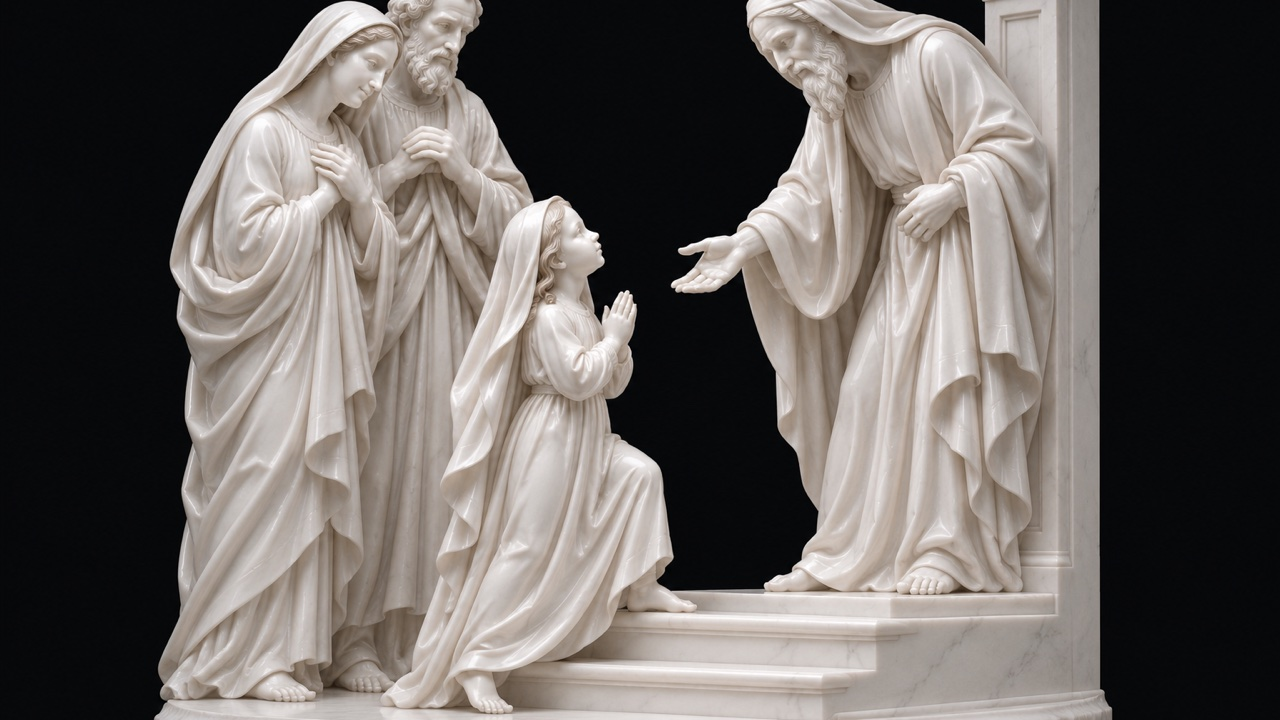
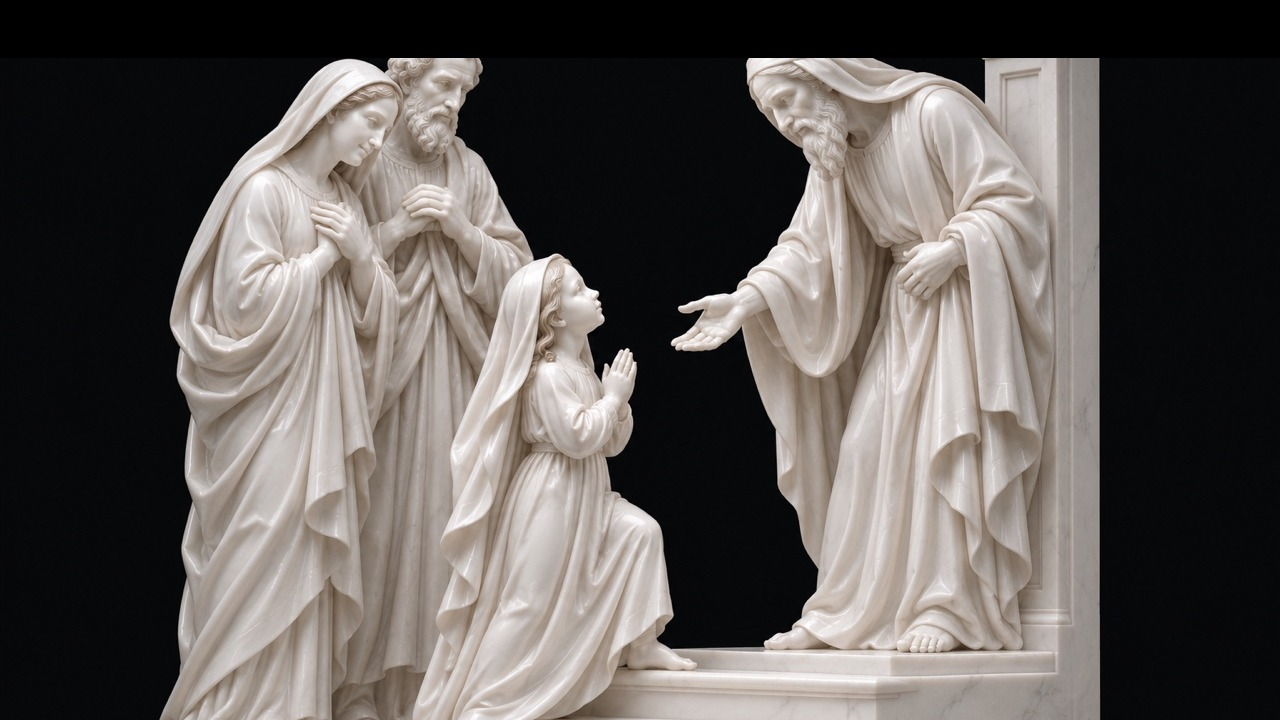
Clear feast detail chrome and give Presentation of Mary top air.
Feast detail and secondary heroes cover-fill below status + inline nav so sculpture heads are no longer hidden by the translucent bar. Presentation of Mary light and dark assets gain ~8% top field while still filling the card from the top and cropping only the bottom.

diff --git a/RosaryGuide/Views/Feasts/FeastsView.swift b/RosaryGuide/Views/Feasts/FeastsView.swift
@@ -487,6 +487,8 @@ struct FeastDetailView: View {
     @Environment(\.colorScheme) private var colorScheme
     /// Nil = all collapsed — keeps feast detail from becoming a wall of prayer text.
     @State private var expandedPrayerID: String?
+    /// Captured before the hero ignores the top safe area so status-bar inset stays real.
+    @State private var topSafeInset: CGFloat = 0
 
     private var feast: Feast { item.feast }
     private var feastDayAssignment: MysteryAssignment {
@@ -527,6 +529,17 @@ struct FeastDetailView: View {
         // Plain page colour over the ambient layer; glass cards stay on.
         .guidePlainPageBackground()
         .guidePageChrome(ambientBackground: true)
+        // Read safe-area from a non-ignoring probe (HomeView captureMetrics pattern).
+        // A GeometryReader under the hero's ignoresSafeArea can report top = 0.
+        .background {
+            GeometryReader { geo in
+                Color.clear
+                    .onAppear { topSafeInset = geo.safeAreaInsets.top }
+                    .onChange(of: geo.safeAreaInsets.top) { _, value in
+                        topSafeInset = value
+                    }
+            }
+        }
         // Keep native navigation visible so level-2 screens always have back navigation.
         // The system back gesture remains available from the far-left edge.
         .toolbar(.visible, for: .navigationBar)
@@ -883,9 +896,15 @@ struct FeastDetailView: View {
     }
 
     private var detailHero: some View {
-        ZStack {
-            FeastHeroBanner(feast: feast, height: 330, cornerRadius: 0)
-                .frame(maxWidth: .infinity)
+        let chrome = topSafeInset + AppTheme.FeastHero.inlineNavBarHeight
+        return ZStack {
+            FeastHeroBanner(
+                feast: feast,
+                height: 330,
+                cornerRadius: 0,
+                topChromeInset: chrome
+            )
+            .frame(maxWidth: .infinity)
         }
         .frame(height: 330)
         .padding(.horizontal, -AppTheme.gutter)
@@ -1297,11 +1316,17 @@ private struct FeastSecondaryPage<Content: View>: View {
     var feast: Feast
     @ViewBuilder var content: () -> Content
     @Environment(\.palette) private var palette
+    @State private var topSafeInset: CGFloat = 0
 
     var body: some View {
         ScrollView(showsIndicators: false) {
             VStack(alignment: .leading, spacing: 0) {
-                FeastHeroBanner(feast: feast, height: 238, cornerRadius: 0)
+                FeastHeroBanner(
+                    feast: feast,
+                    height: 238,
+                    cornerRadius: 0,
+                    topChromeInset: topSafeInset + AppTheme.FeastHero.inlineNavBarHeight
+                )
                     .padding(.horizontal, -AppTheme.gutter)
                     .padding(.top, -8)
                     // Plain page colour above the banner, not the ambient tint.
@@ -1339,6 +1364,15 @@ private struct FeastSecondaryPage<Content: View>: View {
         // Plain page colour over the ambient layer; glass cards stay on.
         .guidePlainPageBackground()
         .guidePageChrome(ambientBackground: true)
+        .background {
+            GeometryReader { geo in
+                Color.clear
+                    .onAppear { topSafeInset = geo.safeAreaInsets.top }
+                    .onChange(of: geo.safeAreaInsets.top) { _, value in
+                        topSafeInset = value
+                    }
+            }
+        }
         // Match FeastDetailView: native nav with hidden (translucent) bar material
         // so hero content can show through liquid glass.
         .toolbar(.visible, for: .navigationBar)
@@ -1373,6 +1407,8 @@ private struct FeastHeroBanner: View {
     var feast: Feast
     var height: CGFloat = 200
     var cornerRadius: CGFloat = AppTheme.containerRadius
+    /// Status + inline nav clearance for under-nav heroes. Home cards leave this at 0.
+    var topChromeInset: CGFloat = 0
     @Environment(\.palette) private var palette
     @Environment(\.colorScheme) private var colorScheme
 
@@ -1399,7 +1435,8 @@ private struct FeastHeroBanner: View {
                     directory: path.directory,
                     name: path.name,
                     ext: path.ext,
-                    coversSubject: true
+                    coversSubject: true,
+                    topChromeInset: topChromeInset
                 )
                 .frame(maxWidth: .infinity, maxHeight: .infinity)
                 .clipped()

diff --git a/RosaryGuideTests/ThemeTokenTests.swift b/RosaryGuideTests/ThemeTokenTests.swift
@@ -539,6 +539,28 @@ final class FeastHeroFramingTests: XCTestCase {
         assertWindowFillsFrame(visibleX: visible.x, visibleY: visible.y, cover: cover, image: image, frame: frame)
     }
 
+    /// View-layer contract (FocusedRasterImage.topChromeInset): feastCover itself is
+    /// unchanged. Detail heroes cover-fill a shorter usable rect (frame.height - inset)
+    /// and place the scaled image at y = inset so heads clear translucent nav chrome.
+    /// Home cards pass inset 0. This documents the usable-size math only.
+    func testTopChromeInsetShortensUsableFrameWithoutChangingFeastCover() {
+        let image = CGSize(width: 1280, height: 720)
+        let frame = CGSize(width: 393, height: 330)
+        let inset: CGFloat = 59 + 44 // typical status + inline nav
+        let usable = CGSize(width: frame.width, height: max(1, frame.height - inset))
+        XCTAssertEqual(usable.height, 227, accuracy: 0.0001)
+
+        let subject = CGRect(x: 0, y: 0, width: 1280, height: 720)
+        let full = ArtCatalog.feastCover(imageSize: image, frame: frame, subject: subject, focusX: 640)
+        let cleared = ArtCatalog.feastCover(imageSize: image, frame: usable, subject: subject, focusX: 640)
+        // Full-height detail is height-driven; the usable window is wider relative to height
+        // so scale drops and more of the file height fits under the chrome.
+        XCTAssertEqual(full.scale, frame.height / image.height, accuracy: 0.0001)
+        XCTAssertEqual(cleared.scale, max(usable.width / image.width, usable.height / image.height), accuracy: 0.0001)
+        XCTAssertEqual(cleared.offset.height, 0, accuracy: 0.0001)
+        XCTAssertLessThan(cleared.scale, full.scale)
+    }
+
     /// When the scaled file is wider than the frame, the window centers on the focus
     /// and still lies entirely inside the image. The top edge stays at y = 0.
     func testHorizontalOverflowCentersOnFocus() {

diff --git a/RosaryGuide/Theme/ArtCatalog.swift b/RosaryGuide/Theme/ArtCatalog.swift
@@ -380,6 +380,10 @@ struct FocusedRasterImage: View {
     /// Feast heroes. Covers the card with the whole file, top-aligned.
     /// Any crop is from the bottom; horizontal overflow follows the subject.
     var coversSubject: Bool = false
+    /// When > 0 (feast detail / secondary under a translucent nav), cover-fill only
+    /// the usable rect below this inset so heads clear status + inline nav chrome.
+    /// The strip above shows whatever is behind the banner (page fill). Home cards keep 0.
+    var topChromeInset: CGFloat = 0
 
     var body: some View {
         GeometryReader { geo in
@@ -404,10 +408,15 @@ struct FocusedRasterImage: View {
     }
 
     private func subjectFill(_ image: UIImage, in frame: CGSize) -> some View {
+        // Clear translucent status + nav by covering only the usable window below
+        // `topChromeInset`. feastCover still top-aligns inside that window (offset.height 0),
+        // so any file crop remains from the bottom relative to the usable rect.
+        let inset = max(0, min(topChromeInset, max(frame.height - 1, 0)))
+        let usable = CGSize(width: frame.width, height: max(1, frame.height - inset))
         let subject = ArtCatalog.feastSubject(of: image)
         let cover = ArtCatalog.feastCover(
             imageSize: image.size,
-            frame: frame,
+            frame: usable,
             subject: subject.bounds,
             focusX: subject.focusX
         )
@@ -419,7 +428,7 @@ struct FocusedRasterImage: View {
             .interpolation(.high)
             .frame(width: width, height: height)
             .fixedSize()
-            .offset(x: cover.offset.width, y: cover.offset.height)
+            .offset(x: cover.offset.width, y: cover.offset.height + inset)
             .frame(width: frame.width, height: frame.height, alignment: .topLeading)
             .clipped()
     }

diff --git a/RosaryGuide/Theme/AppTheme.swift b/RosaryGuide/Theme/AppTheme.swift
@@ -1660,6 +1660,9 @@ extension AppTheme {
     enum FeastHero {
         /// Share of the image height, from the bottom, that fades into the page.
         static let bottomFade: CGFloat = 0.18
+        /// Inline navigation bar height contributed under the status-bar safe area
+        /// when feast detail heroes sit behind a translucent nav title.
+        static let inlineNavBarHeight: CGFloat = 44
     }
 
     enum PrayerPreview {
